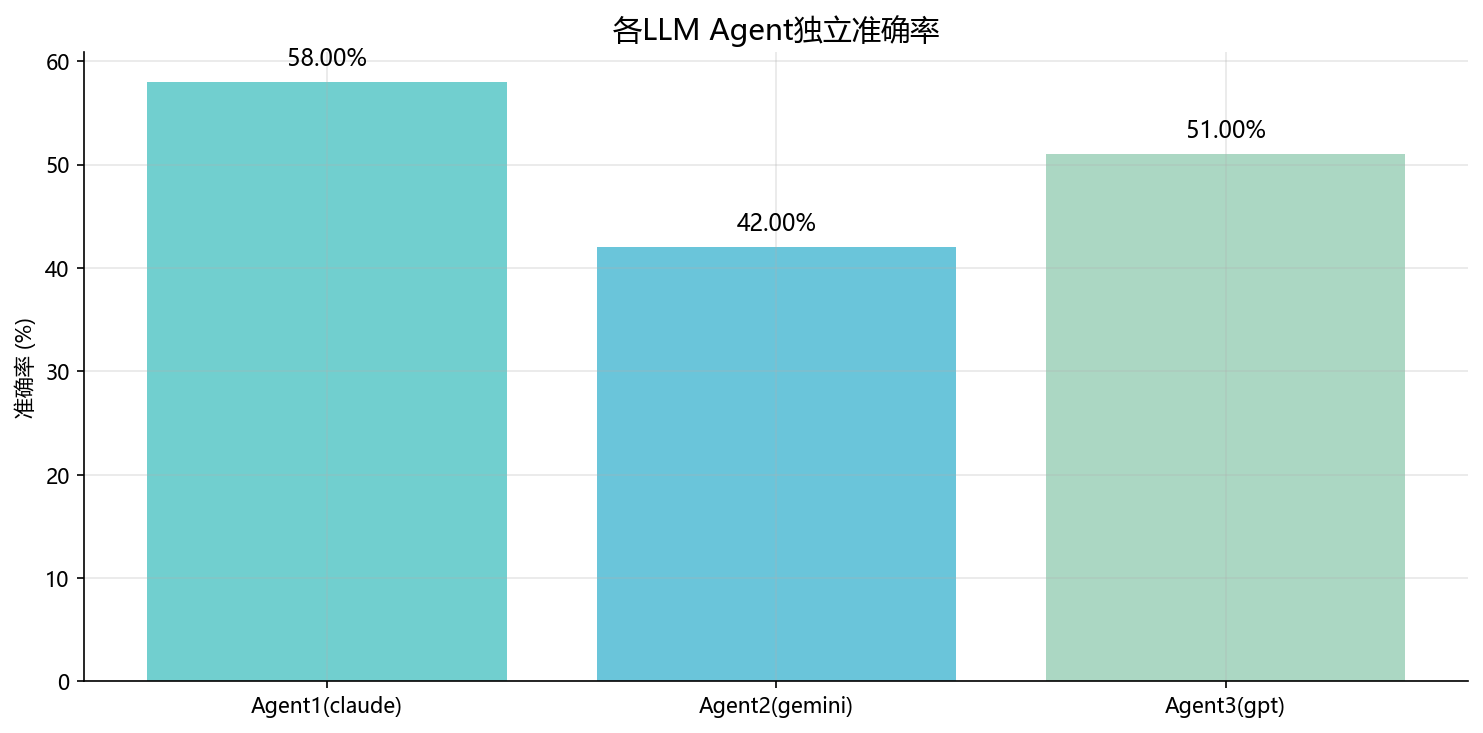
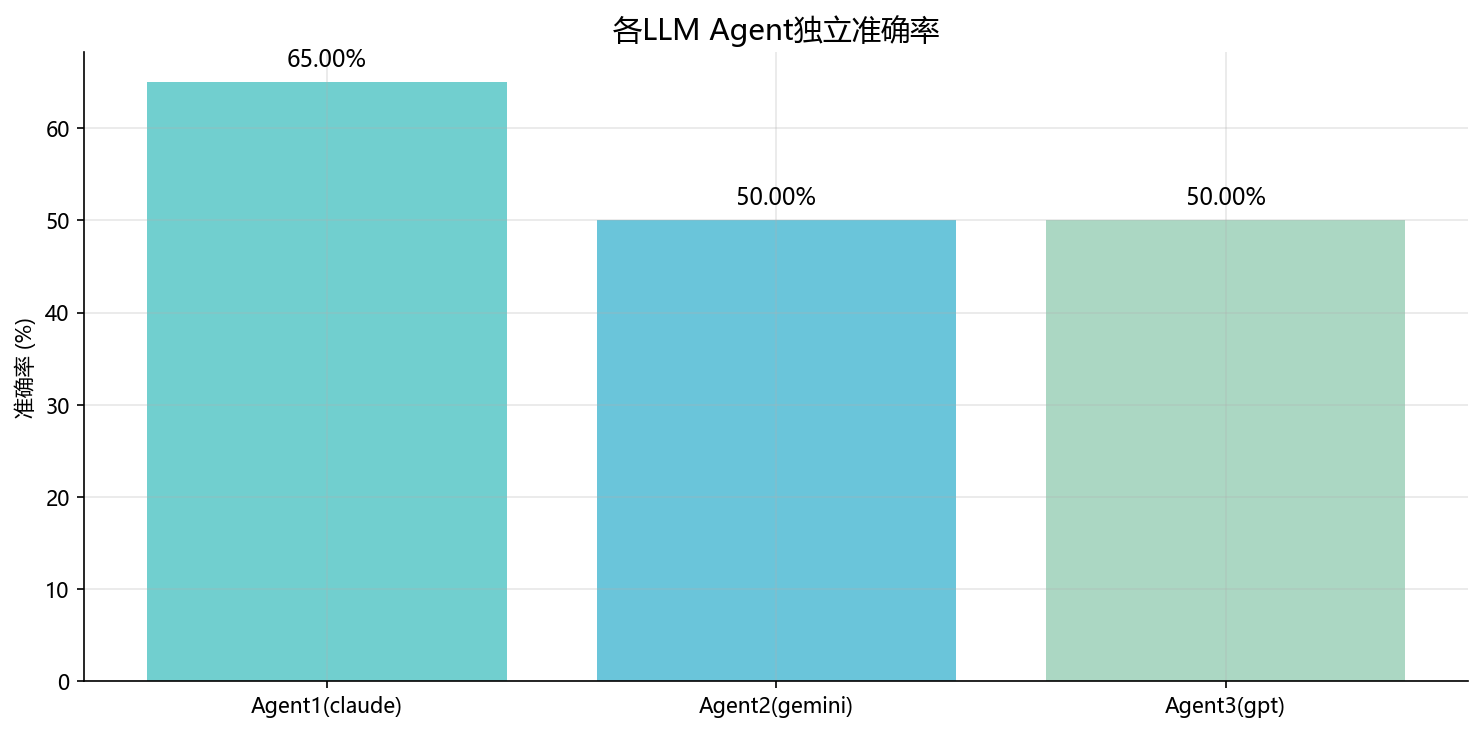
perf: 为LLM代理推理添加多线程并行加速
1. 重构了llm_agent.py和evaluate_with_llm.py中的批量推理逻辑，使用线程池并行运行多个Agent
2. 为推理过程添加了异常捕获和容错填充逻辑
3. 更新了三处对比图表文件
4. 大幅提升多Agent推理的整体执行速度

diff --git a/src/step4_hateful_memes/evaluate_with_llm.py b/src/step4_hateful_memes/evaluate_with_llm.py
@@ -23,6 +23,7 @@ import pandas as pd
 from pathlib import Path
 from PIL import Image
 from tqdm import tqdm
+from concurrent.futures import ThreadPoolExecutor, as_completed
 
 import torch
 import torch.nn as nn
@@ -859,34 +860,65 @@ def run_llm_evaluation(
         else:
             agents_to_run.append((i, agent))
     
-    # 只运行需要重新推理的Agent
-    for i, agent in agents_to_run:
-        print(f"\n  运行 {agent.name}...")
-        for idx in tqdm(range(B_train), desc=f"    Agent{i+1}"):
-            if i == 0:
-                alpha, belief, uncertainty, emb = agent.forward(train_texts[idx], image_description=None)
-            elif i == 1:
-                if agent.use_direct_image:
-                    alpha, belief, uncertainty, emb = agent.forward(train_texts[idx], image=train_images[idx])
-                else:
-                    alpha, belief, uncertainty, emb = agent.forward(train_texts[idx], image_description=train_image_descriptions[idx])
-            else:
-                alpha, belief, uncertainty, emb = agent.forward(train_texts[idx], image_description=train_image_descriptions[idx])
-            all_train_alphas[idx, i] = alpha
-            all_train_beliefs[idx, i] = belief
-            all_train_uncertainties[idx, i] = uncertainty
-            all_train_embs[idx, i] = emb
+    # ★ 并行运行需要重新推理的Agent
+    if agents_to_run:
+        print(f"\n  ★ 并行运行 {len(agents_to_run)} 个Agent (ThreadPoolExecutor)...")
         
-        # 每个Agent完成后立即保存独立缓存
-        if save_cache:
-            agent_cache_path = os.path.join(CHECKPOINT_DIR, f'llm_train_agent{i}.pt')
-            torch.save({
-                'alphas': all_train_alphas[:, i],
-                'beliefs': all_train_beliefs[:, i],
-                'uncertainties': all_train_uncertainties[:, i],
-                'embs': all_train_embs[:, i],
-            }, agent_cache_path)
-            print(f"    {agent.name} 输出已缓存: {agent_cache_path}")
+        def _run_train_agent(i_agent_tuple):
+            """在独立线程中运行一个Agent的全部推理"""
+            i, agent = i_agent_tuple
+            embed_dim = agent.embed_dim
+            local_alphas = torch.zeros(B_train, NUM_CLASSES)
+            local_beliefs = torch.zeros(B_train, NUM_CLASSES)
+            local_uncertainties = torch.zeros(B_train)
+            local_embs = torch.zeros(B_train, embed_dim)
+            
+            try:
+                for idx in range(B_train):
+                    if i == 0:
+                        alpha, belief, uncertainty, emb = agent.forward(train_texts[idx], image_description=None)
+                    elif i == 1:
+                        if agent.use_direct_image:
+                            alpha, belief, uncertainty, emb = agent.forward(train_texts[idx], image=train_images[idx])
+                        else:
+                            alpha, belief, uncertainty, emb = agent.forward(train_texts[idx], image_description=train_image_descriptions[idx])
+                    else:
+                        alpha, belief, uncertainty, emb = agent.forward(train_texts[idx], image_description=train_image_descriptions[idx])
+                    local_alphas[idx] = alpha
+                    local_beliefs[idx] = belief
+                    local_uncertainties[idx] = uncertainty
+                    local_embs[idx] = emb
+            except Exception as e:
+                print(f"    [ERROR] {agent.name} 推理失败: {e}")
+                # 用中性值填充剩余样本
+                for idx in range(B_train):
+                    if local_alphas[idx].sum() == 0:
+                        local_alphas[idx] = torch.ones(NUM_CLASSES)
+                        local_beliefs[idx] = torch.ones(NUM_CLASSES) / NUM_CLASSES
+                        local_uncertainties[idx] = torch.tensor(1.0)
+                        local_embs[idx] = torch.zeros(embed_dim)
+            
+            return i, local_alphas, local_beliefs, local_uncertainties, local_embs
+        
+        with ThreadPoolExecutor(max_workers=len(agents_to_run)) as executor:
+            futures = {executor.submit(_run_train_agent, item): item for item in agents_to_run}
+            for future in as_completed(futures):
+                i, alphas, beliefs, uncertainties, embs = future.result()
+                all_train_alphas[:, i] = alphas
+                all_train_beliefs[:, i] = beliefs
+                all_train_uncertainties[:, i] = uncertainties
+                all_train_embs[:, i] = embs
+                
+                # 每个Agent完成后立即保存独立缓存
+                if save_cache:
+                    agent_cache_path = os.path.join(CHECKPOINT_DIR, f'llm_train_agent{i}.pt')
+                    torch.save({
+                        'alphas': all_train_alphas[:, i],
+                        'beliefs': all_train_beliefs[:, i],
+                        'uncertainties': all_train_uncertainties[:, i],
+                        'embs': all_train_embs[:, i],
+                    }, agent_cache_path)
+                    print(f"    Agent{i+1} 输出已缓存: {agent_cache_path}")
     
     train_time = time.time() - train_start
     print(f"\n  训练集推理完成 ({train_time:.1f}秒)")
@@ -1133,34 +1165,64 @@ def run_llm_evaluation(
         else:
             val_agents_to_run.append((i, agent))
     
-    # 只运行需要重新推理的Agent
-    for i, agent in val_agents_to_run:
-        print(f"\n  运行 {agent.name}...")
-        for idx in tqdm(range(B_val), desc=f"    Agent{i+1}"):
-            if i == 0:
-                alpha, belief, uncertainty, emb = agent.forward(val_texts[idx], image_description=None)
-            elif i == 1:
-                if agent.use_direct_image:
-                    alpha, belief, uncertainty, emb = agent.forward(val_texts[idx], image=val_images[idx])
-                else:
-                    alpha, belief, uncertainty, emb = agent.forward(val_texts[idx], image_description=val_image_descriptions[idx])
-            else:
-                alpha, belief, uncertainty, emb = agent.forward(val_texts[idx], image_description=val_image_descriptions[idx])
-            all_val_alphas[idx, i] = alpha
-            all_val_beliefs[idx, i] = belief
-            all_val_uncertainties[idx, i] = uncertainty
-            all_val_embs[idx, i] = emb
+    # ★ 并行运行需要重新推理的Agent
+    if val_agents_to_run:
+        print(f"\n  ★ 并行运行 {len(val_agents_to_run)} 个Agent (ThreadPoolExecutor)...")
         
-        # 每个Agent完成后立即保存独立缓存
-        if save_cache:
-            agent_cache_path = os.path.join(CHECKPOINT_DIR, f'llm_val_agent{i}.pt')
-            torch.save({
-                'alphas': all_val_alphas[:, i],
-                'beliefs': all_val_beliefs[:, i],
-                'uncertainties': all_val_uncertainties[:, i],
-                'embs': all_val_embs[:, i],
-            }, agent_cache_path)
-            print(f"    {agent.name} 验证集输出已缓存: {agent_cache_path}")
+        def _run_val_agent(i_agent_tuple):
+            """在独立线程中运行一个Agent的验证集推理"""
+            i, agent = i_agent_tuple
+            embed_dim = agent.embed_dim
+            local_alphas = torch.zeros(B_val, NUM_CLASSES)
+            local_beliefs = torch.zeros(B_val, NUM_CLASSES)
+            local_uncertainties = torch.zeros(B_val)
+            local_embs = torch.zeros(B_val, embed_dim)
+            
+            try:
+                for idx in range(B_val):
+                    if i == 0:
+                        alpha, belief, uncertainty, emb = agent.forward(val_texts[idx], image_description=None)
+                    elif i == 1:
+                        if agent.use_direct_image:
+                            alpha, belief, uncertainty, emb = agent.forward(val_texts[idx], image=val_images[idx])
+                        else:
+                            alpha, belief, uncertainty, emb = agent.forward(val_texts[idx], image_description=val_image_descriptions[idx])
+                    else:
+                        alpha, belief, uncertainty, emb = agent.forward(val_texts[idx], image_description=val_image_descriptions[idx])
+                    local_alphas[idx] = alpha
+                    local_beliefs[idx] = belief
+                    local_uncertainties[idx] = uncertainty
+                    local_embs[idx] = emb
+            except Exception as e:
+                print(f"    [ERROR] {agent.name} 验证集推理失败: {e}")
+                for idx in range(B_val):
+                    if local_alphas[idx].sum() == 0:
+                        local_alphas[idx] = torch.ones(NUM_CLASSES)
+                        local_beliefs[idx] = torch.ones(NUM_CLASSES) / NUM_CLASSES
+                        local_uncertainties[idx] = torch.tensor(1.0)
+                        local_embs[idx] = torch.zeros(embed_dim)
+            
+            return i, local_alphas, local_beliefs, local_uncertainties, local_embs
+        
+        with ThreadPoolExecutor(max_workers=len(val_agents_to_run)) as executor:
+            futures = {executor.submit(_run_val_agent, item): item for item in val_agents_to_run}
+            for future in as_completed(futures):
+                i, alphas, beliefs, uncertainties, embs = future.result()
+                all_val_alphas[:, i] = alphas
+                all_val_beliefs[:, i] = beliefs
+                all_val_uncertainties[:, i] = uncertainties
+                all_val_embs[:, i] = embs
+                
+                # 每个Agent完成后立即保存独立缓存
+                if save_cache:
+                    agent_cache_path = os.path.join(CHECKPOINT_DIR, f'llm_val_agent{i}.pt')
+                    torch.save({
+                        'alphas': all_val_alphas[:, i],
+                        'beliefs': all_val_beliefs[:, i],
+                        'uncertainties': all_val_uncertainties[:, i],
+                        'embs': all_val_embs[:, i],
+                    }, agent_cache_path)
+                    print(f"    Agent{i+1} 验证集输出已缓存: {agent_cache_path}")
     
     val_time = time.time() - val_start
     print(f"\n  验证集推理完成 ({val_time:.1f}秒)")

diff --git a/src/llm_agent.py b/src/llm_agent.py
@@ -17,6 +17,7 @@ from typing import Optional, List, Dict, Any, Tuple
 import numpy as np
 import torch
 import torch.nn.functional as F
+from concurrent.futures import ThreadPoolExecutor, as_completed
 
 from src.llm_api import LLMClient, BatchClassifier, PROVIDER_CONFIGS
 
@@ -431,7 +432,7 @@ class BatchLLMProcessor:
         image_descriptions: Optional[List[str]] = None,
     ):
         """
-        批量处理，返回与现有评估管线兼容的输出
+        批量处理（★ 并行版），返回与现有评估管线兼容的输出
         
         Returns:
             all_alphas: [B, N, C]
@@ -450,29 +451,59 @@ class BatchLLMProcessor:
         all_embs = torch.zeros(B, N, D)
         all_preds = torch.zeros(B, dtype=torch.long)
         
-        for i, agent in enumerate(self.agents):
-            if self.verbose:
-                print(f"\n  运行 {agent.name} ({agent.client.provider}/{agent.client.model})...")
+        def _run_single_agent(i_agent):
+            """在独立线程中运行一个Agent的全部推理"""
+            i, agent = i_agent
+            local_alphas = torch.zeros(B, self.num_classes)
+            local_beliefs = torch.zeros(B, self.num_classes)
+            local_uncertainties = torch.zeros(B)
+            local_embs = torch.zeros(B, D)
             
-            for b in range(0, B, self.batch_size):
-                batch_end = min(b + self.batch_size, B)
-                batch_indices = list(range(b, batch_end))
-                
-                for idx in batch_indices:
-                    text = texts[idx]
-                    img_desc = image_descriptions[idx] if image_descriptions else None
+            try:
+                for b in range(0, B, self.batch_size):
+                    batch_end = min(b + self.batch_size, B)
+                    batch_indices = list(range(b, batch_end))
                     
-                    alpha, belief, uncertainty, emb = agent.forward(
-                        text=text, image_description=img_desc,
-                    )
+                    for idx in batch_indices:
+                        text = texts[idx]
+                        img_desc = image_descriptions[idx] if image_descriptions else None
+                        
+                        alpha, belief, uncertainty, emb = agent.forward(
+                            text=text, image_description=img_desc,
+                        )
+                        
+                        local_alphas[idx] = alpha
+                        local_beliefs[idx] = belief
+                        local_uncertainties[idx] = uncertainty
+                        local_embs[idx] = emb
                     
-                    all_alphas[idx, i] = alpha
-                    all_beliefs[idx, i] = belief
-                    all_uncertainties[idx, i] = uncertainty
-                    all_embs[idx, i] = emb
-                
-                if self.verbose:
-                    print(f"    [{b+1}/{B}] {agent.name} done")
+                    if self.verbose:
+                        print(f"    [{b+1}/{B}] {agent.name} done")
+            except Exception as e:
+                print(f"    [ERROR] {agent.name} 推理失败: {e}")
+                # 用中性值填充未处理的样本
+                for idx in range(B):
+                    if local_alphas[idx].sum() == 0:
+                        local_alphas[idx] = torch.ones(self.num_classes)
+                        local_beliefs[idx] = torch.ones(self.num_classes) / self.num_classes
+                        local_uncertainties[idx] = torch.tensor(1.0)
+                        local_embs[idx] = torch.zeros(D)
+            
+            return i, local_alphas, local_beliefs, local_uncertainties, local_embs
+        
+        # ★ 并行运行所有Agent
+        if self.verbose:
+            print(f"  ★ 并行运行 {N} 个Agent (ThreadPoolExecutor)...")
+        
+        with ThreadPoolExecutor(max_workers=N) as executor:
+            futures = {executor.submit(_run_single_agent, (i, agent)): i 
+                      for i, agent in enumerate(self.agents)}
+            for future in as_completed(futures):
+                i, alphas, beliefs, uncertainties, embs = future.result()
+                all_alphas[:, i] = alphas
+                all_beliefs[:, i] = beliefs
+                all_uncertainties[:, i] = uncertainties
+                all_embs[:, i] = embs
         
         # 多数投票
         preds_by_agent = all_beliefs.argmax(dim=-1)  # [B, N]
